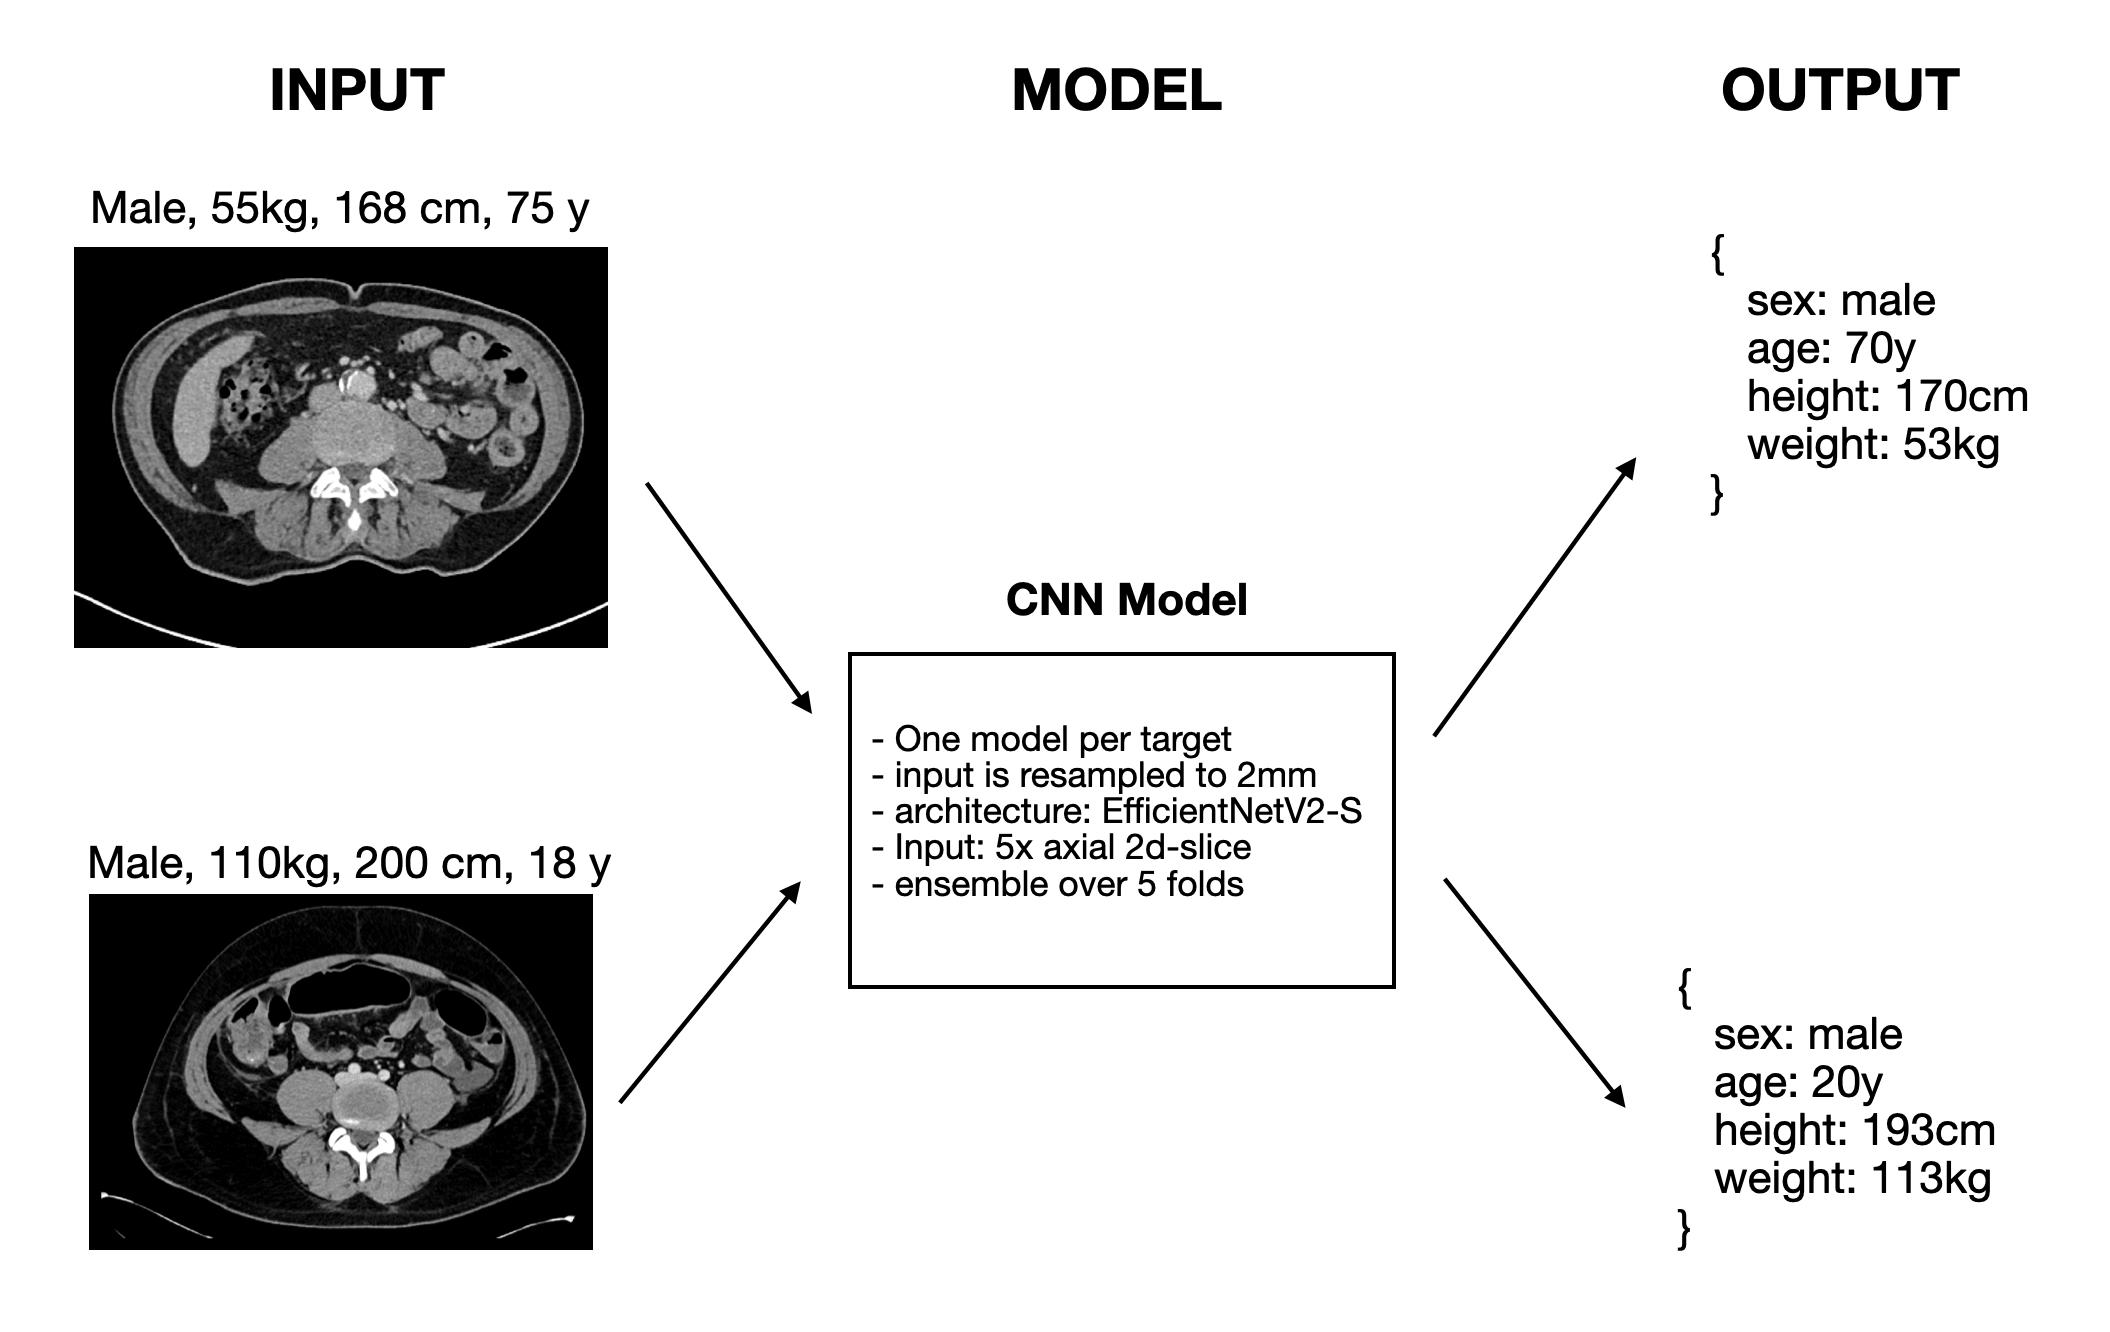
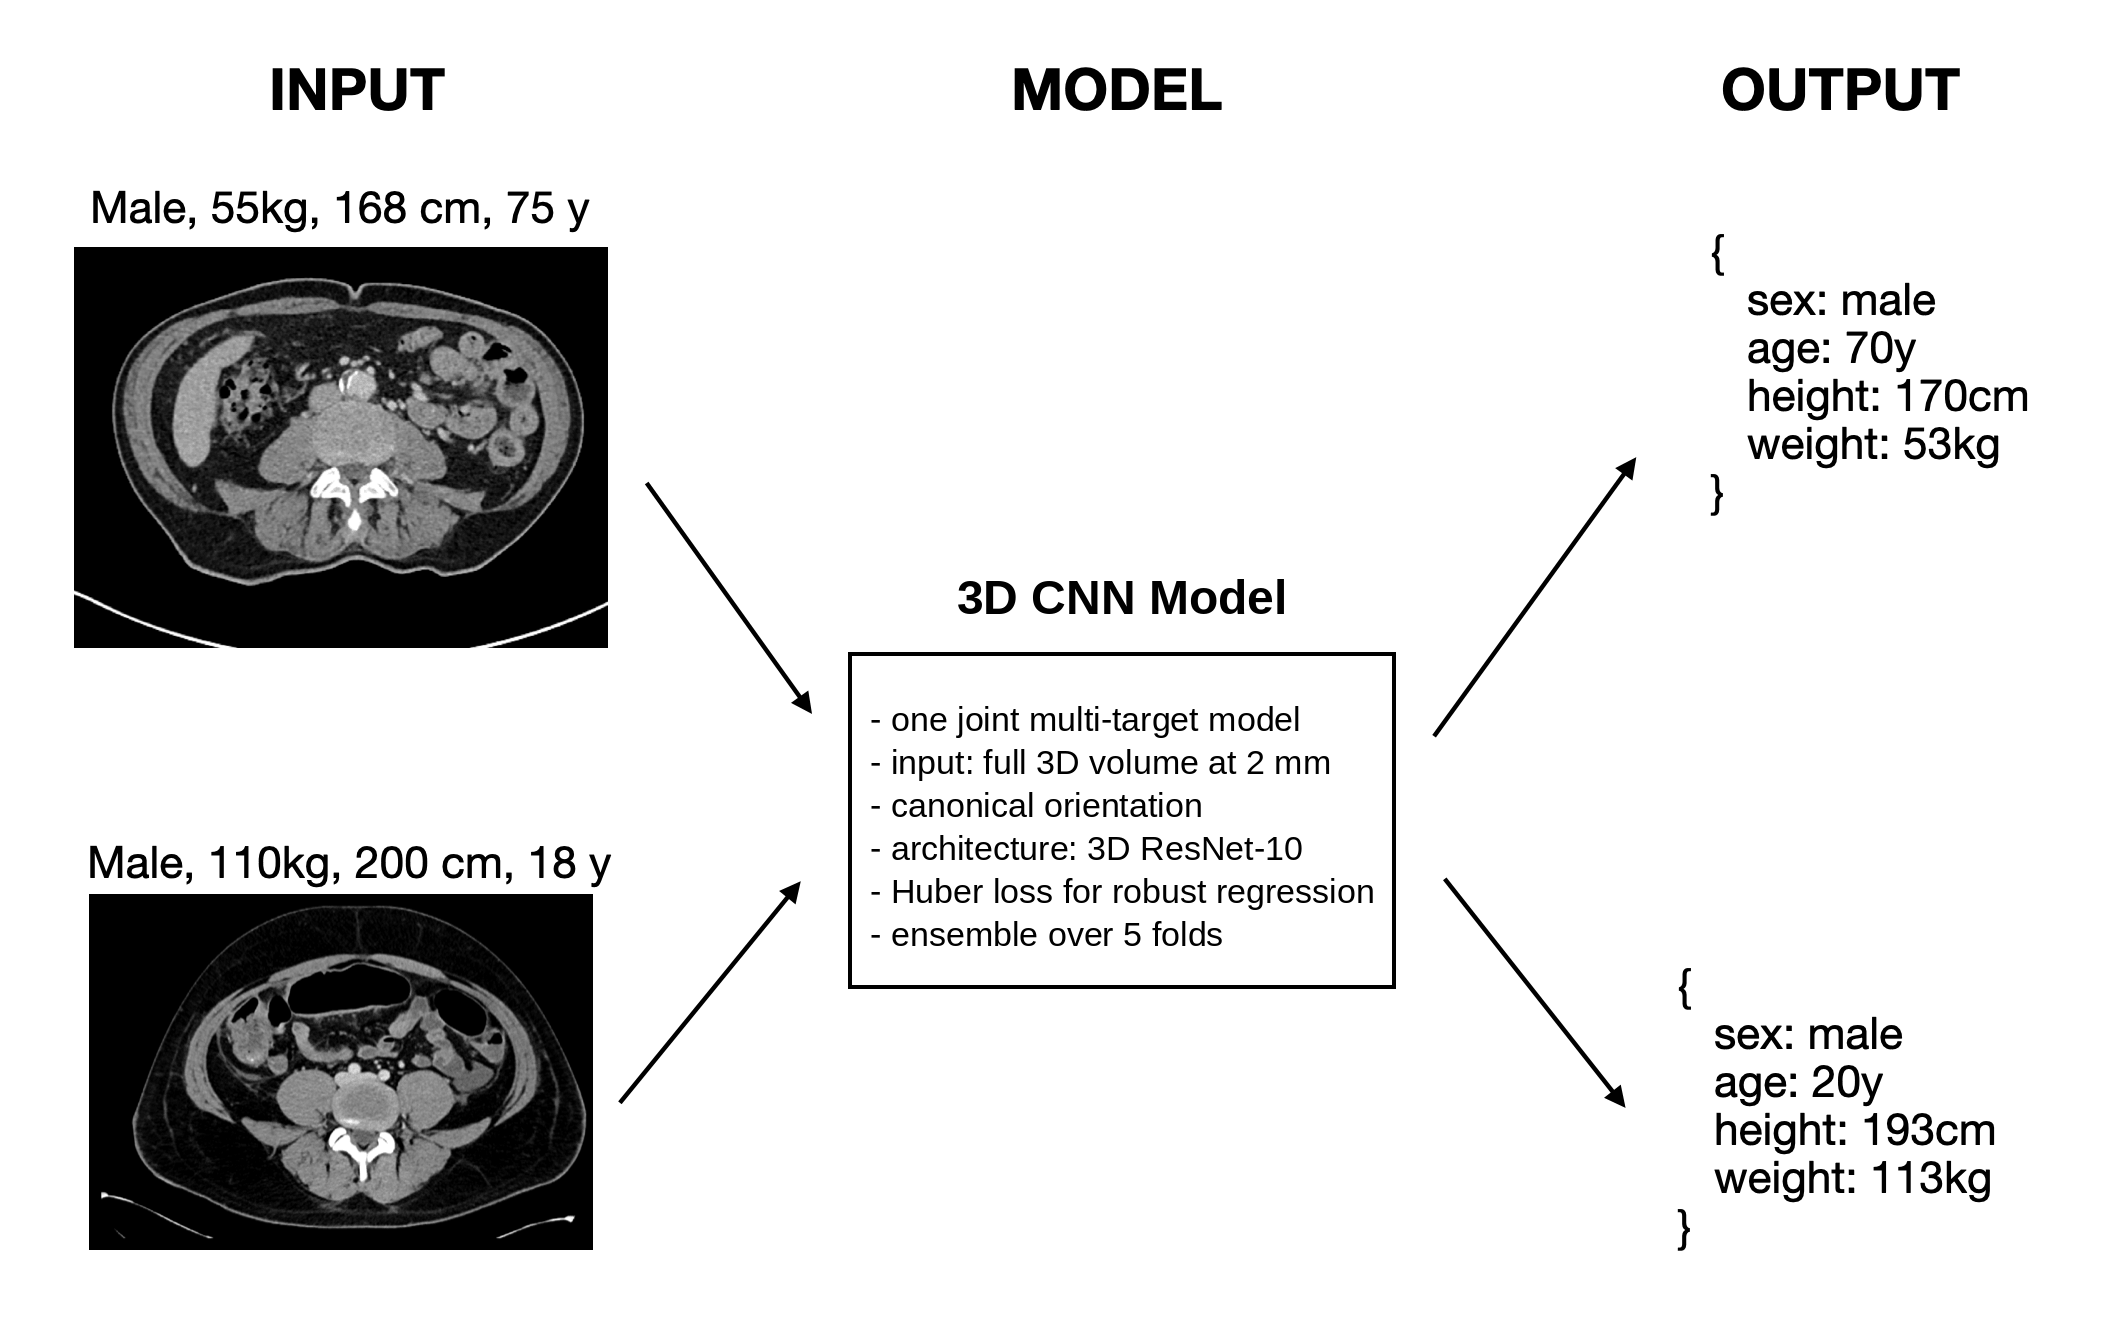
update body stats details md

Changed region(s): [[0.4005, 0.5233, 0.6469, 0.708], [0.4313, 0.4309, 0.6161, 0.4617]]

diff --git a/totalsegmentator/bin/totalseg_get_body_stats.py b/totalsegmentator/bin/totalseg_get_body_stats.py
@@ -7,7 +7,6 @@ import json
 import pickle
 import tempfile
 import subprocess
-from pprint import pprint
 import importlib.resources
 import importlib.metadata
 
@@ -554,6 +553,16 @@ def get_body_stats(img, modality: str, f_type: str = "niigz", model_file: Path =
     yield {"id": 8, "progress": 100, "status": "Done", "result": result}
 
 
+def print_body_stats_result(result: dict):
+    """Pretty-print body stats results as aligned key/value lines."""
+    label_width = max(len(str(key)) for key in result) + 1
+    for key, entry in result.items():
+        value = entry["value"]
+        unit = entry.get("unit")
+        value_str = f"{value} {unit}" if unit else str(value)
+        print(f"{key + ':':<{label_width}}  {value_str}")
+
+
 def main():
     """
     Predicts the body weight and size based on a CT or MR scan. Results are a lot better if the field of view 
@@ -629,6 +638,7 @@ def main():
 
     existing_stats = None
 
+    st = time.time()
     res_gen = get_body_stats(args.input_file, args.modality, f_type=f_type,
                              model_file=args.model_file, quiet=args.quiet, device=args.device,
                              existing_stats=existing_stats, fold=args.fold,
@@ -643,14 +653,16 @@ def main():
     for r in res_gen:
         if not args.quiet:
             print(r['status'])
+            if r["progress"] == 100:
+                print(f"took {time.time() - st:.1f}s")
+                print()
         if r["progress"] == 100:
             final_result = r
 
     res = final_result["result"]
 
     if not args.quiet:
-        print("Result:")
-        pprint(res)
+        print_body_stats_result(res)
 
     if args.output_file is not None:
         with open(args.output_file, "w") as f:

diff --git a/resources/body_stats_prediction.md b/resources/body_stats_prediction.md
@@ -1,129 +1,138 @@
-# Details on how the prediction of body size, weight, age and sex is done
+# Body statistics and acquisition-property prediction
+
 
 ## CNN Model (default)
 
-The default model is a Convolutional Neural Network (CNN) using 5 axial 2d-slices sampled along the z-axis as input.
+The default method uses one 3D CNN for CT and one for MR. Each model processes the complete resampled image volume and predicts all modality-specific targets in a single forward pass.
 
-![Overview of the body stats prediction](imgs/body_stats_overview_cnn.png)
+![Overview of the 3D multitask body-statistics CNN](imgs/body_stats_overview_cnn.png)
 
-Details:
+Both modalities predict:
 
-- Separate CNNs are trained for CT and MR, and for each target (weight, size, age, sex).
-- The models are 2D EfficientNetV2-S (`tf_efficientnetv2_s.in21k`) networks.
-- Input is 5 axial slices from the image, used as 5 input channels. The slices are evenly sampled along the z-axis.
-- Images are resampled to 2 mm spacing, then center cropped/padded to 240 × 240 pixels for CT and 210 × 210 pixels for MR.
-- Inference uses an ensemble of 5 folds; weight, size and age are regression tasks, while sex is a binary classification task.
+- weight
+- height (`size`)
+- age
+- sex
 
+CT additionally predicts:
 
-## XGBoost Model
+- scanner manufacturer
+- tube voltage (`kvp`)
+- tube current (`xray_tube_current`)
+- vendor-harmonized convolution-kernel code (from 20 (soft / tissue) to 80 (hard / bone) kernels)
+- contrast presence
+- post-injection time
+- cranial-most and caudal-most visible vertebral level (`verte_upper`, `verte_lower`)
+- image-noise score
 
-In addition we provide a second model which uses TotalSegmentator features + XGBoost. This is a slower and has lower accuracy. Therefore, this is only recommend as baseline or when the CNN model fails.
+MR additionally reports:
 
-![Overview of the body stats prediction](imgs/body_stats_overview_xgboost.png)
+- contrast presence
+- cranial-most and caudal-most visible vertebral level
+- image-noise score
+- MR sequence class: T1, proton density, T2, FLAIR, STIR, T2*, susceptibility-weighted, diffusion-weighted, MR angiography, or other
 
-TotalSegmentator is used to predict the following structures:
-```python
-organs = [
-    'gluteus_maximus_left', 'hip_right', 'spinal_cord', 'heart', 'spleen', 'hip_left',
-    'clavicula_left', 'scapula_left', 'gluteus_maximus_right', 'gallbladder', 'humerus_right',
-    'gluteus_minimus_right', 'autochthon_left', 'gluteus_minimus_left', 'scapula_right',
-    'femur_right', 'pancreas', 'prostate', 'aorta', 'liver', 'iliopsoas_left',
-    'clavicula_right', 'brain', 'gluteus_medius_left', 'humerus_left', 'gluteus_medius_right',
-    'kidney_left', 'femur_left', 'kidney_right', 'autochthon_right', 'iliopsoas_right',
-    'lung_left', 'lung_right'
-]
-
-vertebrae = [
-    'vertebrae_C1', 'vertebrae_C2', 'vertebrae_C3', 'vertebrae_C4', 'vertebrae_C5',
-    'vertebrae_C6', 'vertebrae_C7', 'vertebrae_T1', 'vertebrae_T2', 'vertebrae_T3',
-    'vertebrae_T4', 'vertebrae_T5', 'vertebrae_T6', 'vertebrae_T7', 'vertebrae_T8',
-    'vertebrae_T9', 'vertebrae_T10', 'vertebrae_T11', 'vertebrae_T12', 'vertebrae_L1',
-    'vertebrae_L2', 'vertebrae_L3', 'vertebrae_L4', 'vertebrae_L5'
-]
-
-tissue_types = ['subcutaneous_fat', 'torso_fat', 'skeletal_muscle']
-```
-For CT, the 5 lung lobes are combined into `lung_left` and `lung_right`. Additionally, for each tissue type a slice is extracted at each vertebra level (tissue_type × vertebra combinations).
-
-Then the volume and median intensity (HU value) of each structure is used as feature for a xgboost classifier.
-
-NOTE: The XGBoost Model uses the `tissue_types` model which is only available with a license. You can get a license [here](https://backend.totalsegmentator.com/license-academic/) and set it via `-l <license_number>`.
+BMI and body surface area are derived from predicted weight and height.
 
 
-## Number of training images:  
+## Training data
 
-| Model    | CT     | MR     |
-|----------|--------|--------|
-| XGBoost  | 46972  | 31901  |
-| CNN      | 57292  | 45544  |
+The CNNs were trained on heterogeneous clinical examinations rather than one standardized acquisition protocol.
+
+| Modality | Examinations | Patients |
+|----------|-------------:|---------:|
+| CT | 57,291 | 34,257 |
+| MR | 43,200 | 29,073 |
+
+
+### CT target distributions
+
+![CT training-target distributions](imgs/body_stats_data_distribution_all_ext_ct.png)
+
+
+### MR target distributions
+
+![MR training-target distributions](imgs/body_stats_data_distribution_all_ext_mr.png)
 
 
 ## Results
 
-For Weight, Size and Age the median absolute error is reported.
-For Sex the Accuracy is reported.
-Each shows the metric ± standard deviation.
-
+Values below are mean absolute error (MAE) ± standard deviation. Sex is reported as F1 score. Classification targets in the additional-target table are F1 scores.
 
 ### CT
 
-#### Test set: 
-- 501 CT images (hold-out)
-- mix of different FOVs (thorax, abdomen, pelvis, whole body)
+#### Internal test set
+
+- 501 held-out CT examinations
+- mixed fields of view
 
 | Model | Weight | Size | Age | Sex |
 |-------|--------|------|-----|-----|
-| CNN | 3.19 ± 4.24 kg | 3.63 ± 3.33 cm | 4.40 ± 3.92 years | 0.98 ± 0.13 |
-| XGBoost | 3.55 ± 4.76 kg | 3.53 ± 3.31 cm | 5.47 ± 5.31 years | 0.96 ± 0.19 |
+| CNN | 3.90 ± 4.18 kg | 3.68 ± 2.86 cm | 4.42 ± 3.50 years | 0.990 |
+| XGBoost | 4.90 ± 4.76 kg | 4.29 ± 3.31 cm | 6.60 ± 5.31 years | 0.969 |
 
 
-#### External test set: 
-- 54 CT images from [Spine-Mets-CT-SEG](https://www.cancerimagingarchive.net/collection/spine-mets-ct-seg/)
+#### Additional CT targets
 
-Thorax-abdomen-pelvis:
+| Target | Performance |
+|--------|-------------|
+| Manufacturer | 0.988 F1 |
+| Tube voltage | 5.58 ± 6.72 kV |
+| Tube current | 165.84 ± 223.64 mA |
+| Convolution-kernel code | 2.29 ± 2.64 |
+| Contrast presence | 0.963 F1 |
+| Post-injection time | 5.36 ± 7.24 s |
+| Cranial vertebral boundary | 0.75 ± 1.28 levels |
+| Caudal vertebral boundary | 0.21 ± 0.45 levels |
+| 75th-percentile noise score | 1.54 ± 1.91 |
 
-| Model | Weight | Size | Age | Sex |
-|-------|--------|------|-----|-----|
-| CNN | 2.96 ± 3.60 kg | 3.66 ± 3.45 cm | 5.63 ± 4.76 years | 0.93 ± 0.26 |
-| XGBoost | 4.03 ± 5.35 kg | 3.83 ± 3.91 cm | 5.67 ± 5.39 years | 0.96 ± 0.19 |
 
-Thorax-only:
+#### External test set
 
-| Model | Weight | Size | Age | Sex |
-|-------|--------|------|-----|-----|
-| CNN | 3.82 ± 4.61 kg | 4.08 ± 3.67 cm | 6.29 ± 5.20 years | 0.94 ± 0.23 |
-| XGBoost | 6.76 ± 6.90 kg | 5.45 ± 4.88 cm | 10.16 ± 8.18 years | 0.89 ± 0.32 |
+- 54 CT examinations from [Spine-Mets-CT-SEG](https://www.cancerimagingarchive.net/collection/spine-mets-ct-seg/)
 
-Abdomen-pelvis-only:
-
-| Model | Weight | Size | Age | Sex |
-|-------|--------|------|-----|-----|
-| CNN | 3.95 ± 4.50 kg | 4.63 ± 4.22 cm | 6.32 ± 6.54 years | 0.94 ± 0.23 |
-| XGBoost | 5.59 ± 7.61 kg | 5.52 ± 5.26 cm | 6.60 ± 6.45 years | 0.91 ± 0.29 |
+| Field of view | Model | Weight | Size | Age | Sex |
+|---------------|-------|--------|------|-----|-----|
+| Thorax–abdomen–pelvis | CNN | 4.45 ± 3.24 kg | 4.05 ± 2.82 cm | 5.17 ± 3.57 years | 0.971 |
+| Thorax–abdomen–pelvis | XGBoost | 5.26 ± 5.35 kg | 4.64 ± 3.91 cm | 7.49 ± 5.39 years | 0.971 |
+| Thorax only | CNN | 6.24 ± 5.26 kg | 4.83 ± 3.81 cm | 5.86 ± 4.73 years | 0.941 |
+| Thorax only | XGBoost | 8.63 ± 6.90 kg | 6.05 ± 4.88 cm | 11.53 ± 8.18 years | 0.909 |
+| Abdomen–pelvis | CNN | 3.78 ± 3.39 kg | 4.53 ± 3.04 cm | 5.39 ± 4.44 years | 0.972 |
+| Abdomen–pelvis | XGBoost | 7.63 ± 7.61 kg | 6.48 ± 5.26 cm | 8.44 ± 6.45 years | 0.928 |
 
 
 ### MR
 
-#### Test set: 
-- 636 MR images (hold-out)
-- mix of different FOVs (thorax, abdomen, pelvis, whole body)
+#### Internal test set
+
+- 636 held-out MR examinations
+- mixed fields of view
 
 | Model | Weight | Size | Age | Sex |
 |-------|--------|------|-----|-----|
-| CNN | 2.69 ± 3.49 kg | 3.27 ± 3.07 cm | 3.95 ± 5.47 years | 0.99 ± 0.12 |
-| XGBoost | 4.82 ± 7.60 kg | 4.05 ± 4.42 cm | 9.35 ± 8.71 years | 0.92 ± 0.28 |
+| CNN | 4.34 ± 4.32 kg | 4.62 ± 3.61 cm | 7.13 ± 5.95 years | 0.970 |
+| XGBoost | 7.08 ± 7.60 kg | 5.21 ± 4.42 cm | 11.46 ± 8.71 years | 0.932 |
 
 
-### Runtime 
+#### Additional MR targets
 
-Runtime for 512x512x807 CT image on a Nvidia RTX 3090:
+| Target | Performance |
+|--------|-------------|
+| Contrast presence | 0.823 F1 |
+| Cranial vertebral boundary | 2.83 ± 4.44 levels |
+| Caudal vertebral boundary | 2.50 ± 4.51 levels |
+| 75th-percentile noise score | 2.34 ± 2.15 |
+| MR sequence | 0.953 micro-F1 |
 
-| Model | Time | RAM |
-|-------|------|-----|
-| XGBoost (GPU) | 133 s | 11.5 GB |
-| XGBoost (CPU) | 872 s | 11.5 GB |
-| CNN (GPU) | 38 s | 4.0 GB |
-| CNN (CPU) | 37 s | 3.5 GB |
+
+### Runtime
+
+Runtime covers preprocessing and the complete five-fold CNN ensemble on CPU.
+
+| Modality and input shape | Time | Peak RAM |
+|--------------------------|-----:|---------:|
+| CT, 512 × 512 × 807 | 20 s | 3.8 GB |
+| MR, 320 × 250 × 72 | 12 s | 1.7 GB |
 
 
 ## Derived metrics
@@ -139,20 +148,48 @@ $$\text{BMI} = \frac{\text{weight (kg)}}{\text{height (m)}^2}$$
 $$\text{BSA (m}^2\text{)} = \sqrt{\frac{\text{height (cm)} \times \text{weight (kg)}}{3600}}$$
 
 
-## Info
+## Limitations
 
 **Do not use for age < 16 years, since the model was not trained on children.**
 
-**The bigger the field of view the better the prediction (e.g. complete abdomen and thorax give a lot better results, than images with only the pelvis visible).**
+**Performance depends on the field of view. Very limited head, extremity, or small spine examinations may be unreliable.**
 
-The classifier (both CNN and XGBoost) is an ensemble of 5 models. The output contains the 
-standard deviation of the predictions which can be used as a measure of confidence. If it is low the 5 models
-give similar predictions which is a good sign.
+Weight and height predictions are intended for metadata plausibility checks, retrospective research, and approximate derived measures. They should not replace direct measurement when an error could affect high-risk dosing or ventilation settings. Predicted age is not suitable for forensic or legal age assessment.
 
-The following plots show the distribution of the training data. If you try to predict cases out of this distribution, the model will likely not perform well.
+The models were trained on heterogeneous clinical data, which improves coverage of routine acquisition variation. However, most ground truths came from DICOM metadata or automated algorithms and may be missing, estimated, outdated, or incorrect. Some uncommon acquisition classes are underrepresented.
 
-![Distribution of the training data](imgs/body_stats_data_distribution.png)
+External validation is currently limited to a relatively small CT cohort. Independent multicenter MR validation and broader external validation of the additional acquisition and quality-control targets are still needed.
 
-## Limitations
 
-The model was trained on clinical data. This makes the model more robust and more generalizable to other clinical settings (e.g. in contrast to a model trained on some population study like UK Biobank). However, sometimes the body weight and size are not exactly measured but only estimated when being added to the DICOM header by clinicians. This reduces the accuracy of the model.
+## Technical details
+
+
+### Architecture and preprocessing
+
+- Model: 3D ResNet-10
+- Images are converted to closest canonical orientation and resampled to 2 mm isotropic spacing.
+- CT input is center cropped or padded to 240 × 240 × 240 voxels. CT intensities are clipped to the training-set 2nd–98th percentiles and normalized with training-set statistics.
+- MR input is center cropped or padded to 210 × 210 × 150 voxels. Each MR volume is standardized individually.
+- All continuous and encoded categorical targets are optimized jointly with Huber loss after fold-specific target standardization.
+- The release model is an ensemble of five folds. Final values are means of the five denormalized predictions.
+- CPU is sufficient for inference; no segmentation is required by the default CNN.
+
+
+### Noise and coverage labels
+
+Noise labels are generated from local 10 mm patches in TotalSegmentator tissue masks. A 3D affine intensity trend is removed from each patch, and residual noise is estimated robustly from the median absolute deviation.
+
+- For CT, the score combines absolute residual noise from skeletal muscle, subcutaneous fat, and torso fat.
+- For MR, residual noise is divided by local signal because MR intensity is arbitrarily scaled. Valid relative-noise patches are pooled across tissue regions.
+- The CNN predicts the 75th percentile so that locally noisy image regions influence the score. Higher values indicate more noise.
+
+Visible coverage is encoded using the cranial-most and caudal-most detected vertebra from C1 through L5. These outputs provide a compact indication of which part of the body is present in the image.
+
+
+## XGBoost Model
+
+An alternative model uses TotalSegmentator segmentations and XGBoost. It is slower, requires several segmentation steps, and had lower performance than the CNN for all four core targets in the current internal CT and MR test sets. It is mainly retained as a baseline or fallback.
+
+TotalSegmentator provides organ, bone, vertebral, and tissue-compartment segmentations. Region volumes and median intensities, together with vertebral-level measurements of subcutaneous fat, torso fat, and skeletal muscle, are used as XGBoost features. Separate target-specific ensembles predict weight, height, age, and sex.
+
+The XGBoost model uses the `tissue_types` task, which requires a license. An academic license is available [here](https://backend.totalsegmentator.com/license-academic/) and can be provided with `-l <license_number>`.

diff --git a/README.md b/README.md
@@ -144,7 +144,7 @@ Thank you to [INGEDATA](https://www.ingedata.ai/) for providing a team of radiol
 
 ### Other commands
 
-If you want to know body weight, size, age, sex, BMI and BSA you can use the following command (requires `pip install timm monai`). It runs on CPU in <1min. It requires a license which you can get for free for non-commercial usage [here](https://backend.totalsegmentator.com/license-academic/). More details can be found [here](resources/body_stats_prediction.md):
+If you want to know body weight, size, age, sex, BMI, BSA, image noise, contrast, FOV and more information about the image you can use the following command (requires `pip install timm monai`). It runs on CPU in <1min. It requires a license which you can get for free for non-commercial usage [here](https://backend.totalsegmentator.com/license-academic/). More details can be found [here](resources/body_stats_prediction.md):
 ```bash
 totalseg_get_body_stats -i ct.nii.gz -o body_stats.json -m ct
 ```
